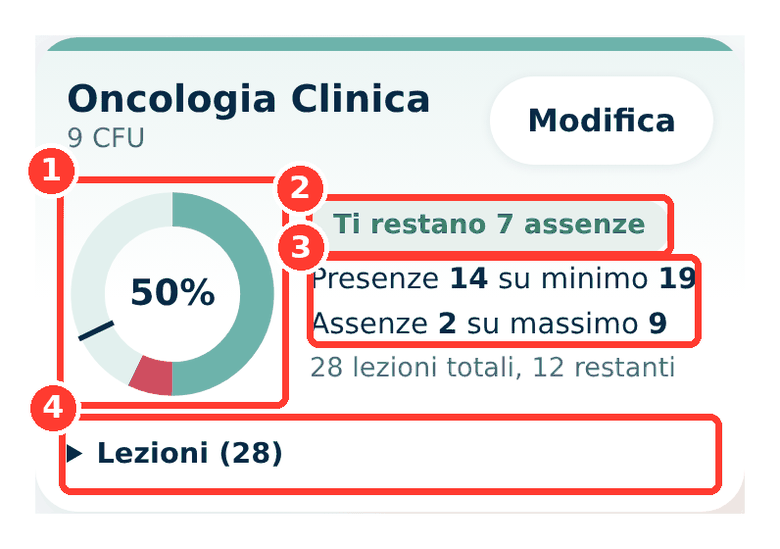
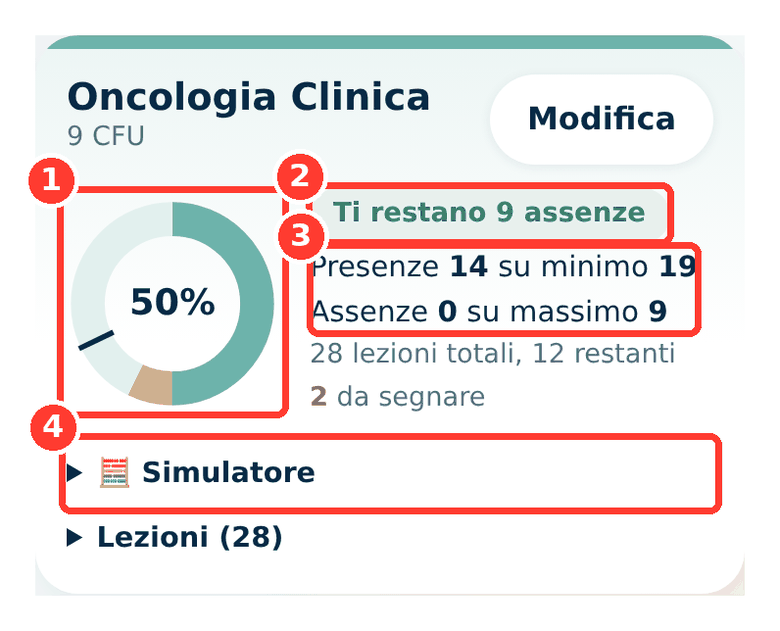
Add files via upload

Changed region(s): [[0.0308, 0.1239, 0.9538, 0.9599], [0.0615, 0.031, 0.9538, 0.0929], [0.6769, 0.1548, 0.8615, 0.2477]]

diff --git a/index.html b/index.html
@@ -133,6 +133,22 @@ header{background:var(--hg);border-radius:26px;padding:16px 18px 18px;box-shadow
 .sw span{display:block;width:34px;height:34px;border-radius:50%;border:3px solid transparent;box-shadow:0 0 0 1px var(--ln);cursor:pointer}
 .sw input:checked+span{border-color:var(--sf);box-shadow:0 0 0 3px var(--ink)}
 .sw input:focus-visible+span{outline:2px solid var(--ok);outline-offset:3px}
+.mk{display:flex;gap:6px;flex:none}
+.pb,.ab{width:34px;height:34px;border-radius:50%;border:2px solid;background:none;cursor:pointer;padding:0;font-weight:700;line-height:1;display:grid;place-items:center;font-size:.95rem}
+.pb{border-color:color-mix(in srgb,var(--cc,var(--mu)) var(--dotpct),var(--dotmix));color:color-mix(in srgb,var(--cc,var(--mu)) var(--dotpct),var(--dotmix))}
+.pb:not(.on){opacity:.6}
+.pb.on{background:color-mix(in srgb,var(--cc,var(--ok)) var(--dotpct),var(--dotmix));color:var(--dotck)}
+.ab{border-color:color-mix(in srgb,var(--no) 50%,var(--sf));color:var(--no)}
+.ab:not(.on){opacity:.6}
+.ab.on{background:var(--no);border-color:var(--no);color:#fff}
+.ls li{cursor:default}
+.pend{color:var(--wa);font-weight:600}
+.bulk{margin:4px 0 8px}
+.sim>summary{cursor:pointer;color:var(--ink);font-weight:600;padding:6px 0}
+.simb p{margin:8px 0;font-size:.92rem}
+#toast{position:fixed;left:14px;right:122px;bottom:calc(14px + env(safe-area-inset-bottom,0px));z-index:7;background:var(--ink);color:var(--bg);border-radius:14px;padding:10px 14px;display:flex;justify-content:space-between;align-items:center;gap:10px;box-shadow:0 4px 14px rgba(0,0,0,.25);font-size:.92rem}
+#toast[hidden]{display:none}
+#toast .lnk{color:inherit;font-weight:700;padding:4px 6px}
 </style>
 </head>
 <body>
@@ -140,7 +156,7 @@ header{background:var(--hg);border-radius:26px;padding:16px 18px 18px;box-shadow
 <header>
   <div>
     <h1 class="brand"><img class="logo" src="logo.png" alt="InAula"></h1>
-    <p class="sub">Primo semestre. Tocca una lezione per segnarla come frequentata: quelle già svolte e non spuntate contano come assenze.</p>
+    <p class="sub">Segna ogni lezione con ✓ (c'ero) o ✕ (non c'ero). Quelle che non segni restano "da segnare" e non contano come assenze.</p>
     <p class="meta"><span id="who"></span> <span id="sync">Connessione…</span> · <button class="lnk" id="out">Esci</button></p>
   </div>
   <div class="bar">
@@ -151,7 +167,7 @@ header{background:var(--hg);border-radius:26px;padding:16px 18px 18px;box-shadow
 </header>
 <div id="warn"></div>
 <section class="today" id="today"></section>
-<p class="legend"><span><i style="background:conic-gradient(#6DB3AB,#A29CDB,#7FB0DC,#E2BC7C,#98C08E,#6DB3AB)"></i>Presenze (nel colore dell'insegnamento)</span><span><i style="background:var(--no)"></i>Assenze già fatte</span><span><i style="background:var(--rs)"></i>Lezioni restanti</span><span>La tacca sull'anello segna il minimo da raggiungere, arrotondato per eccesso.</span></p>
+<p class="legend"><span><i style="background:conic-gradient(#6DB3AB,#A29CDB,#7FB0DC,#E2BC7C,#98C08E,#6DB3AB)"></i>Presenze (nel colore dell'insegnamento)</span><span><i style="background:var(--no)"></i>Assenze segnate</span><span><i style="background:var(--wa);opacity:.5"></i>Da segnare</span><span><i style="background:var(--rs)"></i>Lezioni restanti</span><span>La tacca sull'anello segna il minimo da raggiungere, arrotondato per eccesso.</span></p>
 <div class="grid" id="grid"></div>
 <div id="archive"></div>
 <button class="fab" data-act="guide" aria-label="Apri la guida">? Guida</button>
@@ -169,11 +185,12 @@ header{background:var(--hg);border-radius:26px;padding:16px 18px 18px;box-shadow
     <button class="lnk" id="fg" type="button">Password dimenticata?</button>
   </form>
 </main>
+<div id="toast" role="status" hidden></div>
 <dialog id="dlg"></dialog>
 <dialog id="gd" aria-labelledby="gdt">
 <div class="gh"><h2 id="gdt">Guida</h2><button class="btn" data-act="gclose">Chiudi</button></div>
 <div class="gc">
-<div class="tl"><b>In breve:</b> 1) copi il link dell'orario dal sito dell'università · 2) lo incolli in InAula · 3) tocchi le lezioni a cui vai. Il resto lo calcola il sito.</div>
+<div class="tl"><b>In breve:</b> 1) copi il link dell'orario dal sito dell'università · 2) lo incolli in InAula · 3) segni ✓ le lezioni a cui vai. Il resto lo calcola il sito.</div>
 
 <details class="gs" id="gs1" open><summary>1. Copiare il link dell'orario</summary><div class="gb">
 <p>Si fa una volta a semestre e richiede 2 minuti, anche dal telefono. <b>Non serve scaricare nessun file.</b></p>
@@ -207,27 +224,28 @@ header{background:var(--hg);border-radius:26px;padding:16px 18px 18px;box-shadow
 </div></details>
 
 <details class="gs" id="gs3"><summary>3. Segnare le presenze e vedere le lezioni di oggi</summary><div class="gb">
-<p><b>Tocca il cerchio</b> accanto alla lezione a cui vai: diventa verde con la spunta. Toccalo di nuovo per annullare.</p>
-<img class="gimg" src="guida-7.png" width="780" height="762" alt="Vista Oggi con l'elenco delle lezioni e il cerchio da toccare evidenziato" loading="lazy">
-<ul class="sub"><li><b>Oggi</b>, in alto, mostra le lezioni della giornata: le spunti da lì.</li>
-<li>Le lezioni già finite e non spuntate contano come <b>assenze</b> (cerchio rosso e scritta "assente").</li>
-<li>Puoi spuntare anche dalla scheda dell'insegnamento: tocca <b>Lezioni</b> per aprire l'elenco.</li></ul>
+<p>Accanto a ogni lezione ci sono due pulsanti: <b>✓</b> (c'ero) e <b>✕</b> (non c'ero). Toccane uno per segnare la lezione; toccalo di nuovo per togliere il segno.</p>
+<img class="gimg" src="guida-7.png" width="780" height="925" alt="Vista Oggi con le lezioni della giornata e i pulsanti presente e assente evidenziati" loading="lazy">
+<ol class="sub"><li><b>✓</b> = ero presente.</li><li><b>✕</b> = ero assente.</li></ol>
+<ul class="sub"><li><b>Oggi</b>, in alto, mostra le lezioni della giornata: le segni da lì. <b>Sono presente a tutte quelle di oggi</b> le segna in un colpo solo.</li>
+<li>Le lezioni che non segni <b>non contano come assenze</b>: quelle già finite compaiono come <b>da segnare</b>, con un promemoria in alto.</li>
+<li>Hai iniziato a usare InAula a metà semestre? Apri <b>Lezioni</b> e premi <b>Segna presenti le … passate da segnare</b>, poi correggi con ✕ quelle a cui non c'eri.</li>
+<li>Toccato per sbaglio? Per qualche secondo compare <b>Annulla</b> in basso.</li></ul>
 </div></details>
 
-<details class="gs" id="gs4"><summary>4. Leggere il grafico e la soglia</summary><div class="gb">
-<img class="gimg" src="guida-8.png" width="780" height="549" alt="Scheda di un insegnamento con grafico ad anello, messaggio e numeri evidenziati" loading="lazy">
-<ol class="sub"><li><b>L'anello</b>: il colore dell'insegnamento = presenze, rosso = assenze già fatte, grigio chiaro = lezioni che restano. Al centro c'è la percentuale di presenze sul totale. La <b>tacca</b> scura sull'anello segna il minimo da raggiungere.</li>
-<li><b>Il messaggio</b> dice quante assenze ti restano. Verde: sei tranquillo. Marrone: te ne restano pochissime (2 lezioni o meno). Rosso: la soglia non è più raggiungibile.</li>
-<li><b>I numeri</b>: presenze fatte e minimo richiesto, assenze fatte e massimo consentito.</li>
-<li><b>Lezioni</b> apre l'elenco delle lezioni.</li></ol>
+<details class="gs" id="gs4"><summary>4. Leggere il grafico, la soglia e il simulatore</summary><div class="gb">
+<img class="gimg" src="guida-8.png" width="780" height="631" alt="Scheda di un insegnamento con grafico ad anello, messaggio, numeri e simulatore evidenziati" loading="lazy">
+<ol class="sub"><li><b>L'anello</b>: il colore dell'insegnamento = presenze, rosso = assenze segnate, beige = da segnare, grigio chiaro = lezioni che restano. Al centro c'è la percentuale di presenze sul totale. La <b>tacca</b> scura sull'anello segna il minimo da raggiungere.</li>
+<li><b>Il messaggio</b> dice quante assenze ti restano (contano solo quelle che hai segnato con ✕). Verde: sei tranquillo. Marrone: te ne restano pochissime (2 lezioni o meno). Rosso: la soglia non è più raggiungibile.</li>
+<li><b>I numeri</b>: presenze segnate e minimo richiesto, assenze segnate e massimo consentito, lezioni ancora da segnare.</li>
+<li><b>Simulatore</b>: risponde a "Posso saltare la prossima lezione?", "Quante ne posso ancora saltare?" e "Se frequento tutte le prossime, a quanto arrivo?".</li></ol>
 <p>In alto compare un riquadro con gli insegnamenti a rischio. La percentuale minima (66%) si cambia accanto a "Soglia", in alto. Il minimo è sempre arrotondato per eccesso. Il colore di ogni insegnamento si sceglie da <b>Modifica</b>.</p>
 </div></details>
 
 <details class="gs" id="gs5"><summary>5. Modificare o spostare una lezione</summary><div class="gb">
 <p>Se un professore sposta o annulla una lezione, apri l'elenco con <b>Lezioni</b> e usa:</p>
-<img class="gimg" src="guida-9.png" width="780" height="1095" alt="Elenco delle lezioni con i pulsanti modifica, elimina e aggiungi lezione evidenziati" loading="lazy">
-<ol class="sub"><li><b>✎</b> per cambiare data e orario (poi Salva). Nella stessa finestra puoi anche eliminare la lezione.</li>
-<li><b>✕</b> per eliminarla subito.</li>
+<img class="gimg" src="guida-9.png" width="780" height="1260" alt="Elenco delle lezioni con il pulsante modifica e il pulsante Aggiungi lezione evidenziati" loading="lazy">
+<ol class="sub"><li><b>✎</b> per cambiare data e orario (poi Salva). Nella stessa finestra puoi anche <b>eliminare</b> la lezione: se ti sbagli, subito dopo compare <b>Annulla</b>.</li>
 <li><b>Aggiungi lezione</b> per inserirne una nuova con data e orari.</li></ol>
 <p>Le modifiche sono solo tue: i compagni non vedono niente. Se importi di nuovo il calendario, le lezioni che hai spostato o eliminato non tornano.</p>
 </div></details>
@@ -280,7 +298,9 @@ let ref=null,unsub=null,dirty=false,writing=false,timer=null;
 const clone=v=>JSON.parse(JSON.stringify(v));
 const canon=v=>JSON.stringify(v,(k,x)=>x&&typeof x==='object'&&!Array.isArray(x)?Object.fromEntries(Object.entries(x).sort()):x);
 const SYNC={ok:'Sincronizzato',pending:'Salvataggio…',off:'Offline: le modifiche partiranno appena torni online',err:'Sincronizzazione non riuscita, riprovo…'};
-const setSync=k=>{const e=document.getElementById('sync');if(e)e.textContent=SYNC[k]};
+let lastSync=null;
+const fmtLast=d=>{const t=new Date(),y=new Date(t);y.setDate(t.getDate()-1);const hh=String(d.getHours()).padStart(2,'0')+':'+String(d.getMinutes()).padStart(2,'0');return d.toDateString()===t.toDateString()?`oggi alle ${hh}`:d.toDateString()===y.toDateString()?`ieri alle ${hh}`:`${d.toLocaleDateString('it-IT',{day:'numeric',month:'short'})} alle ${hh}`};
+const setSync=k=>{const e=document.getElementById('sync');if(!e)return;if(k==='ok')lastSync=new Date();const ls=lastSync?` Ultima sincronizzazione: ${fmtLast(lastSync)}.`:'';e.textContent=k==='ok'?`Ultima sincronizzazione: ${fmtLast(lastSync)}`:SYNC[k]+(k==='pending'?'':ls)};
 function save(){if(!ref)return;dirty=true;clearTimeout(timer);timer=setTimeout(flush,400);setSync('pending')}
 async function flush(){
   if(writing||!dirty||!ref)return;
@@ -301,6 +321,7 @@ const p2=n=>String(n).padStart(2,'0');
 const ymd=D=>`${D.getFullYear()}-${p2(D.getMonth()+1)}-${p2(D.getDate())}`;
 const hm=D=>p2(D.getHours())+':'+p2(D.getMinutes());
 const fmtD=d=>new Date(d+'T12:00').toLocaleDateString('it-IT',{weekday:'short',day:'numeric',month:'short'});
+const sx=l=>l.x!==undefined?l.x:(l.p?1:0);   // 1 presente, 2 assente, 0 da segnare
 const ended=(l,now)=>new Date(l.d+'T'+(l.e||'23:59'))<now;
 
 const durMin=(l,c)=>{if(l.s&&l.e){const f=x=>{const[a,b]=x.split(':');return+a*60+ +b},d=f(l.e)-f(l.s);if(d>0)return d}return Math.round((c.hd||2)*60)};
@@ -311,9 +332,9 @@ function calc(c){
   const sm=a=>a.reduce((s,l)=>s+w(l),0),Sc=sm(L);
   const T=Math.max(h?Math.round((c.total||0)*60):(c.total||0),Sc);
   const x=S.thr*T,M=Math.min(T,h?Math.ceil(x/6000)*60:Math.ceil(x/100)),maxA=T-M;
-  const P=sm(L.filter(l=>l.p)),A=sm(L.filter(l=>!l.p&&ended(l,now)));
+  const P=sm(L.filter(l=>sx(l)===1)),A=sm(L.filter(l=>sx(l)===2)),U=sm(L.filter(l=>sx(l)===0&&ended(l,now)));
   const warn=h?2*(L.length?Sc/L.length:(c.hd||2)*60):2;
-  return{h,T,M,maxA,P,A,R:T-P-A,margin:maxA-A,S:Sc,n:L.length,warn};
+  return{h,T,M,maxA,P,A,U,R:T-P-A-U,margin:maxA-A,S:Sc,n:L.length,warn};
 }
 function status(k){
   if(!k.T)return{c:'var(--mu)',t:'Aggiungi le lezioni'};
@@ -331,9 +352,9 @@ function statusArch(k){
 }
 function pie(k){
   const r=40,C=2*Math.PI*r,T=k.T||1;let off=0,s='';
-  for(const[n,col]of[[k.P,'var(--ok)'],[k.A,'var(--no)'],[k.R,'var(--rs)']]){
+  for(const[n,col,op]of[[k.P,'var(--ok)'],[k.A,'var(--no)'],[k.U,'var(--wa)',.5],[k.R,'var(--rs)']]){
     const len=C*n/T;
-    if(n>0)s+=`<circle cx="50" cy="50" r="${r}" fill="none" stroke="${col}" stroke-width="16" stroke-dasharray="${len} ${C-len}" stroke-dashoffset="${-off}" transform="rotate(-90 50 50)"/>`;
+    if(n>0)s+=`<circle cx="50" cy="50" r="${r}" fill="none" stroke="${col}" stroke-width="16"${op?` stroke-opacity="${op}"`:''} stroke-dasharray="${len} ${C-len}" stroke-dashoffset="${-off}" transform="rotate(-90 50 50)"/>`;
     off+=len;
   }
   if(!k.T)s=`<circle cx="50" cy="50" r="${r}" fill="none" stroke="var(--rs)" stroke-width="16"/>`;
@@ -341,20 +362,31 @@ function pie(k){
   const pct=k.T?Math.round(k.P/k.T*1000)/10:0;
   return`<svg class="pie" viewBox="0 0 100 100" role="img" aria-label="${pct}% di presenze">${s}<line x1="${50+31*sn}" y1="${50-31*cs}" x2="${50+49*sn}" y2="${50-49*cs}" stroke="var(--ink)" stroke-width="2.5"/><text x="50" y="50" text-anchor="middle" dominant-baseline="central" font-size="17" font-weight="700" fill="currentColor">${pct}%</text></svg>`;
 }
+function sim(c,k){
+  const now=new Date(),f=v=>fv(k,v),n=v=>k.h?fh(v):`${v} ${v===1?'lezione':'lezioni'}`,w=l=>k.h?durMin(l,c):1,pc=v=>(Math.round(v/k.T*1000)/10)+'%';
+  const up=c.lessons.filter(l=>sx(l)===0&&!ended(l,now)).sort((a,b)=>(a.d+(a.s||'')).localeCompare(b.d+(b.s||'')))[0];
+  let o='';
+  if(up){const m2=k.margin-w(up);o+=`<p><b>Posso saltare la prossima (${fmtD(up.d)}${up.s?', '+up.s:''})?</b><br>${m2<0?'No: supereresti il massimo di assenze.':m2===0?'Sì, ma sarebbe l\'ultima che puoi saltare.':(k.h?`Sì: ti resterebbero ${f(m2)} di assenza.`:`Sì: ti resterebbe${m2===1?' 1 assenza':'ro '+m2+' assenze'}.`)}</p>`}
+  o+=`<p><b>Quante ne posso ancora saltare?</b><br>${k.margin<0?'Nessuna: la soglia non è più raggiungibile.':k.margin===0?'Nessuna: hai già raggiunto il massimo.':n(k.margin)+'.'}</p>`;
+  const fin=k.P+k.R;
+  o+=`<p><b>Se frequento tutte le prossime, a quanto arrivo?</b><br>${pc(fin)} (${f(fin)} su ${f(k.T)}), ${fin>=k.M?'sopra':'sotto'} il minimo di ${f(k.M)}.${k.U?` Se segni presenti anche quelle da segnare (${f(k.U)}) arrivi a ${pc(fin+k.U)}.`:''}</p>`;
+  return o;
+}
 function card(c){
   const arch=!!c.arch,k=calc(c),st=arch?statusArch(k):status(k),now=new Date();
   const L=[...c.lessons].sort((a,b)=>(a.d+(a.s||'')).localeCompare(b.d+(b.s||'')));
   const my=d=>new Date(d+'T12:00').toLocaleDateString('it-IT',{month:'short',year:'numeric'}),rg=arch&&L.length?`, archiviato (${my(L[0].d)} – ${my(L[L.length-1].d)})`:'';
-  const rows=L.map(l=>{const ab=!l.p&&ended(l,now);
-    return`<li data-act="tog" data-c="${c.id}" data-l="${l.id}" style="--cc:${cc(c)}"><button class="dot${l.p?' on':''}${ab?' abs':''}" aria-pressed="${l.p}" aria-label="Presente">${l.p?'✓':''}</button><span class="lt"><span class="dt">${fmtD(l.d)}</span> ${l.s?`<small class="t">${l.s}${l.e?'–'+l.e:''}</small>`:''} ${l.m?`<small>${esc(l.m)}</small>`:''}</span>${l.o?'<span class="tag" style="color:var(--mu)">modificata</span>':''}${ab?'<span class="tag">assente</span>':''}<button class="x" data-act="el" data-c="${c.id}" data-l="${l.id}" aria-label="Modifica lezione">✎</button><button class="x" data-act="dl" data-c="${c.id}" data-l="${l.id}" aria-label="Elimina lezione">✕</button></li>`}).join('');
-  const f=v=>fv(k,v),missing=k.T>k.S?`, di cui ${f(k.T-k.S)} non ancora in calendario`:'';
+  const rows=L.map(l=>{const x=sx(l),pend=x===0&&ended(l,now);
+    return`<li data-c="${c.id}" data-l="${l.id}" style="--cc:${cc(c)}"><span class="mk"><button class="pb${x===1?' on':''}" data-act="mp" data-c="${c.id}" data-l="${l.id}" aria-pressed="${x===1}" aria-label="Presente">✓</button><button class="ab${x===2?' on':''}" data-act="ma" data-c="${c.id}" data-l="${l.id}" aria-pressed="${x===2}" aria-label="Assente">✕</button></span><span class="lt"><span class="dt">${fmtD(l.d)}</span> ${l.s?`<small class="t">${l.s}${l.e?'–'+l.e:''}</small>`:''} ${l.m?`<small>${esc(l.m)}</small>`:''}${pend?' <small class="pend">da segnare</small>':''}</span>${l.o?'<span class="tag" style="color:var(--mu)">modificata</span>':''}<button class="x" data-act="el" data-c="${c.id}" data-l="${l.id}" aria-label="Modifica lezione">✎</button></li>`}).join('');
+  const nP=c.lessons.filter(l=>sx(l)===0&&ended(l,now)).length,f=v=>fv(k,v),missing=k.T>k.S?`, di cui ${f(k.T-k.S)} non ancora in calendario`:'';
   return`<article class="card" data-card="${c.id}" style="--st:${st.c};--cc:${cc(c)}">
 <div class="top"><div><h2>${esc(c.name)}</h2><div class="meta">${c.cfu?c.cfu+' CFU':'CFU non indicati'}${c.annual?', annuale':''}${c.unit==='h'?', conteggio in ore':''}${rg}</div></div><button class="btn" data-act="edit" data-c="${c.id}">Modifica</button></div>
 <div class="body">${pie(k)}<div class="stats"><div class="verdict">${st.t}</div>
 <div>Presenze <b>${f(k.P)}</b> su minimo <b>${f(k.M)}</b></div>
 <div>Assenze <b>${f(k.A)}</b> su massimo <b>${f(k.maxA)}</b></div>
-<div class="meta">${k.h?`${f(k.T)} totali (${k.n} lezioni)`:`${k.T} lezioni totali`}${missing}${arch?'':`, ${f(k.R)} restanti`}</div></div></div>
-<details data-c="${c.id}"${openSet.has(c.id)?' open':''}><summary>Lezioni (${c.lessons.length})</summary><ul class="ls">${rows}</ul>
+<div class="meta">${k.h?`${f(k.T)} totali (${k.n} lezioni)`:`${k.T} lezioni totali`}${missing}${arch?'':`, ${f(k.R)} restanti`}</div>${k.U?`<div class="meta"><b class="pend">${f(k.U)}</b> da segnare</div>`:''}</div></div>
+${arch||!k.T?'':`<details class="sim" data-c="${c.id}"${openSet.has('s'+c.id)?' open':''}><summary>🧮 Simulatore</summary><div class="simb">${sim(c,k)}</div></details>`}
+<details data-c="${c.id}"${openSet.has(c.id)?' open':''}><summary>Lezioni (${c.lessons.length})</summary>${nP?`<div class="bulk"><button class="btn" data-act="bp" data-c="${c.id}">Segna presenti le ${nP} passate da segnare</button></div>`:''}<ul class="ls">${rows}</ul>
 <div class="add"><input type="date" class="nd" aria-label="Data"><input type="time" class="ns" aria-label="Inizio"><input type="time" class="ne" aria-label="Fine"><button class="btn" data-act="add" data-c="${c.id}">Aggiungi lezione</button></div></details>
 </article>`;
 }
@@ -367,22 +399,25 @@ function renderTop(){
     if(k.T&&k.P<k.M&&k.margin<=k.warn)w.push(`<div>⚠ <b>${esc(c.name)}</b>: ${status(k).t.toLowerCase()}</div>`);
   }
   items.sort((a,b)=>(a.l.s||'').localeCompare(b.l.s||''));
-  $('warn').innerHTML=w.length?`<div class="warn">${w.join('')}</div>`:'';
-  const rows=items.map(({c,l})=>{const ab=!l.p&&ended(l,now);
-    return`<li data-act="tog" data-c="${c.id}" data-l="${l.id}" style="--cc:${cc(c)}"><button class="dot${l.p?' on':''}${ab?' abs':''}" aria-pressed="${l.p}" aria-label="Presente">${l.p?'✓':''}</button><span class="lt"><b>${esc(c.name)}</b> ${l.s?`<small class="t">${l.s}${l.e?'–'+l.e:''}</small>`:''} ${l.m?`<small>${esc(l.m)}</small>`:''}</span>${ab?'<span class="tag">assente</span>':''}</li>`}).join('');
-  $('today').innerHTML=`<h2>📅 Oggi, ${now.toLocaleDateString('it-IT',{weekday:'long',day:'numeric',month:'long'})}</h2>`+(items.length?`<ul class="ls">${rows}</ul>`:'<p class="meta">Oggi non ci sono lezioni in calendario.</p>');
+  let pend=0;S.courses.forEach(c=>{if(!c.arch)pend+=c.lessons.filter(l=>sx(l)===0&&ended(l,now)).length});
+  $('warn').innerHTML=(w.length?`<div class="warn">${w.join('')}</div>`:'')+(pend?`<div class="warn" style="margin-top:8px">📝 Hai <b>${pend}</b> ${pend===1?'lezione passata':'lezioni passate'} da segnare.</div>`:'');
+  const rows=items.map(({c,l})=>{const x=sx(l),pend=x===0&&ended(l,now);
+    return`<li data-c="${c.id}" data-l="${l.id}" style="--cc:${cc(c)}"><span class="mk"><button class="pb${x===1?' on':''}" data-act="mp" data-c="${c.id}" data-l="${l.id}" aria-pressed="${x===1}" aria-label="Presente">✓</button><button class="ab${x===2?' on':''}" data-act="ma" data-c="${c.id}" data-l="${l.id}" aria-pressed="${x===2}" aria-label="Assente">✕</button></span><span class="lt"><b>${esc(c.name)}</b> ${l.s?`<small class="t">${l.s}${l.e?'–'+l.e:''}</small>`:''} ${l.m?`<small>${esc(l.m)}</small>`:''}${pend?' <small class="pend">da segnare</small>':''}</span></li>`}).join('');
+  const nT=items.filter(({l})=>sx(l)===0).length;
+  $('today').innerHTML=`<h2>📅 Oggi, ${now.toLocaleDateString('it-IT',{weekday:'long',day:'numeric',month:'long'})}</h2>`+(items.length?`<ul class="ls">${rows}</ul>${nT?`<button class="btn" data-act="bt" style="margin:4px 0 8px">Sono presente a tutte quelle di oggi (${nT})</button>`:''}`:'<p class="meta">Oggi non ci sono lezioni in calendario.</p>');
 }
 const PAL=[['Verde acqua','#6DB3AB'],['Lilla','#A29CDB'],['Azzurro','#7FB0DC'],['Sabbia','#E2BC7C'],['Salvia','#98C08E'],['Orchidea','#BE9BD6'],['Pesca','#E0A48F'],['Ardesia','#8FB0BF']];
 function nextColor(){const n=PAL.map(()=>0);S.courses.forEach(c=>{if(n[c.ci]!==undefined)n[c.ci]++});return n.indexOf(Math.min(...n))}
 function ensureColors(){let ch=false;S.courses.forEach(c=>{if(!PAL[c.ci]){c.ci=nextColor();ch=true}});if(ch)save()}
 const cc=c=>(PAL[c.ci]||PAL[0])[1];
 let archOpen=false;
+function migrate(){let ch=false;S.courses.forEach(c=>c.lessons.forEach(l=>{if('p' in l){if(l.x===undefined)l.x=l.p?1:0;delete l.p;ch=true}}));if(ch)save()}
 function render(){
-  ensureColors();
+  migrate();ensureColors();
   $('thr').value=S.thr;renderTop();
   const act=S.courses.filter(c=>!c.arch),arc=S.courses.filter(c=>c.arch);
   $('archive').innerHTML=arc.length?`<details class="archv"${archOpen?' open':''}><summary>🗂 Archivio (${arc.length})</summary><div class="grid">${arc.map(card).join('')}</div></details>`:'';
-  $('grid').innerHTML=act.length?act.map(card).join(''):arc.length?`<div class="empty"><p>Nessun insegnamento attivo.<br>Importa il calendario del nuovo semestre o aggiungine uno.</p><div class="bar"><button class="btn pri" data-act="imp">Importa calendario</button><button class="btn" data-act="new">Nuovo insegnamento</button></div></div>`:`<div class="empty start"><h2>Inizia da qui</h2><ol><li>Copia il link dell'orario dal sito dell'università <button class="lnk" data-act="guide" data-s="1" style="padding:0">come si fa?</button></li><li>Premi <b>Importa calendario</b> e incolla il link</li><li>Tocca le lezioni a cui vai: il resto lo calcola InAula</li></ol><div class="bar"><button class="btn pri" data-act="guide" data-s="1">Apri la guida</button><button class="btn" data-act="imp">Importa calendario</button><button class="btn" data-act="new">Nuovo insegnamento</button></div></div>`;
+  $('grid').innerHTML=act.length?act.map(card).join(''):arc.length?`<div class="empty"><p>Nessun insegnamento attivo.<br>Importa il calendario del nuovo semestre o aggiungine uno.</p><div class="bar"><button class="btn pri" data-act="imp">Importa calendario</button><button class="btn" data-act="new">Nuovo insegnamento</button></div></div>`:`<div class="empty start"><h2>Inizia da qui</h2><ol><li>Copia il link dell'orario dal sito dell'università <button class="lnk" data-act="guide" data-s="1" style="padding:0">come si fa?</button></li><li>Premi <b>Importa calendario</b> e incolla il link</li><li>Segna ✓ le lezioni a cui vai: il resto lo calcola InAula</li></ol><div class="bar"><button class="btn pri" data-act="guide" data-s="1">Apri la guida</button><button class="btn" data-act="imp">Importa calendario</button><button class="btn" data-act="new">Nuovo insegnamento</button></div></div>`;
 }
 function renderCard(id){
   const el=document.querySelector(`[data-card="${id}"]`);if(!el)return render();
@@ -487,11 +522,15 @@ function openGuide(s){
   if(!g.open)g.showModal();
   g.querySelector('.gc').scrollTop=0;
 }
+let undoSnap=null,toastT=null;
+function showToast(msg){const t=$('toast');t.innerHTML=`<span>${esc(msg)}</span><button class="lnk" data-act="undo" type="button">Annulla</button>`;t.hidden=false;clearTimeout(toastT);toastT=setTimeout(()=>{t.hidden=true;undoSnap=null},6000)}
+function mark(c,l,v){undoSnap=clone(S);l.x=sx(l)===v?0:v;delete l.p;save();renderCard(c.id);showToast(l.x===1?'Segnata come presente':l.x===2?'Segnata come assente':'Segno rimosso')}
 const keysOf=t=>new Set([...t.lessons.flatMap(l=>[l.d+'|'+l.s,...(l.o?[l.o]:[])]),...(t.rm||[])]);
 function delLesson(c,id){
   const l=c.lessons.find(x=>x.id===id);if(!l)return;
+  undoSnap=clone(S);
   c.rm=[...new Set([...(c.rm||[]),l.d+'|'+l.s,...(l.o?[l.o]:[])])];
-  c.lessons=c.lessons.filter(x=>x.id!==id);save();renderCard(c.id);
+  c.lessons=c.lessons.filter(x=>x.id!==id);save();renderCard(c.id);showToast('Lezione eliminata');
 }
 function lessonDlg(c,l){
   dlg.innerHTML=`<h3>Modifica lezione</h3><p class="meta">${esc(c.name)}. La modifica riguarda solo il tuo account.</p>
@@ -505,7 +544,10 @@ function lessonDlg(c,l){
 document.addEventListener('click',e=>{
   const b=e.target.closest('[data-act]');if(!b)return;
   const a=b.dataset.act,c=S.courses.find(x=>x.id===b.dataset.c);
-  if(a==='tog'&&c){const l=c.lessons.find(x=>x.id===b.dataset.l);if(l){l.p=!l.p;save();renderCard(c.id)}}
+  if((a==='mp'||a==='ma')&&c){const l=c.lessons.find(x=>x.id===b.dataset.l);if(l)mark(c,l,a==='mp'?1:2)}
+  else if(a==='bp'&&c){undoSnap=clone(S);const now=new Date();let n=0;c.lessons.forEach(l=>{if(sx(l)===0&&ended(l,now)){l.x=1;delete l.p;n++}});save();renderCard(c.id);showToast(`${n} lezioni segnate come presenti`)}
+  else if(a==='bt'){undoSnap=clone(S);const td=ymd(new Date());let n=0;S.courses.forEach(c=>{if(!c.arch)c.lessons.forEach(l=>{if(l.d===td&&sx(l)===0){l.x=1;delete l.p;n++}})});save();render();showToast(`${n} lezioni segnate come presenti`)}
+  else if(a==='undo'){if(undoSnap){S=undoSnap;undoSnap=null;$('toast').hidden=true;save();render()}}
   else if(a==='dl'&&c)delLesson(c,b.dataset.l);
   else if(a==='el'&&c){const l=c.lessons.find(x=>x.id===b.dataset.l);if(l)lessonDlg(c,l)}
   else if(a==='savel'&&c){
@@ -523,7 +565,7 @@ document.addEventListener('click',e=>{
   else if(a==='add'&&c){
     const k=b.closest('.card'),d=k.querySelector('.nd').value;
     if(!d){k.querySelector('.nd').focus();return}
-    c.lessons.push({id:uid(),d,s:k.querySelector('.ns').value,e:k.querySelector('.ne').value,p:false});
+    c.lessons.push({id:uid(),d,s:k.querySelector('.ns').value,e:k.querySelector('.ne').value});
     openSet.add(c.id);save();renderCard(c.id);
   }
   else if(a==='edit'&&c)courseDlg(c);
@@ -553,7 +595,7 @@ document.addEventListener('click',e=>{
       let t=S.courses.find(x=>x.id===s.value);
       if(!t){t={id:uid(),name:nice(n),cfu:0,annual:false,total:0,unit:$('iu').value,hd:2,lessons:[]};S.courses.push(t)}
       const seen=keysOf(t);
-      pending.g[n].forEach(x=>{const key=x.d+'|'+x.s;if(seen.has(key))return;seen.add(key);t.lessons.push({id:uid(),d:x.d,s:x.s,e:x.e,p:false,...(x.m?{m:nice(x.m)}:{})});add++});
+      pending.g[n].forEach(x=>{const key=x.d+'|'+x.s;if(seen.has(key))return;seen.add(key);t.lessons.push({id:uid(),d:x.d,s:x.s,e:x.e,...(x.m?{m:nice(x.m)}:{})});add++});
     });
     toArc.forEach(c=>{c.arch=true});
     save();render();pending=null;
@@ -572,7 +614,7 @@ document.addEventListener('change',e=>{
   else if(t.id==='fu'){$('ftt').textContent=(t.value==='h'?'Totale ore previste':'Totale lezioni previste')+' (facoltativo)';$('fdr').hidden=t.value!=='h';$('ft').value=''}
 });
 document.addEventListener('toggle',e=>{
-  const d=e.target;if(d.matches&&d.matches('details.archv')){archOpen=d.open;return}if(!d.matches||!d.matches('details[data-c]'))return;
+  const d=e.target;if(d.matches&&d.matches('details.sim')){d.open?openSet.add('s'+d.dataset.c):openSet.delete('s'+d.dataset.c);return}if(d.matches&&d.matches('details.archv')){archOpen=d.open;return}if(!d.matches||!d.matches('details[data-c]'))return;
   d.open?openSet.add(d.dataset.c):openSet.delete(d.dataset.c);
 },true);
 const ERR={'auth/invalid-credential':'Email o password non corrette.','auth/wrong-password':'Email o password non corrette.','auth/user-not-found':'Email o password non corrette.','auth/email-already-in-use':'Esiste già un account con questa email.','auth/invalid-email':'Email non valida.','auth/weak-password':'Password troppo corta (minimo 6 caratteri).','bad-code':'Il database ha rifiutato la registrazione: il codice è sbagliato oppure le regole o il documento config/invite non sono impostati bene.','auth/too-many-requests':'Troppi tentativi: riprova tra qualche minuto.','auth/network-request-failed':'Nessuna connessione.'};
